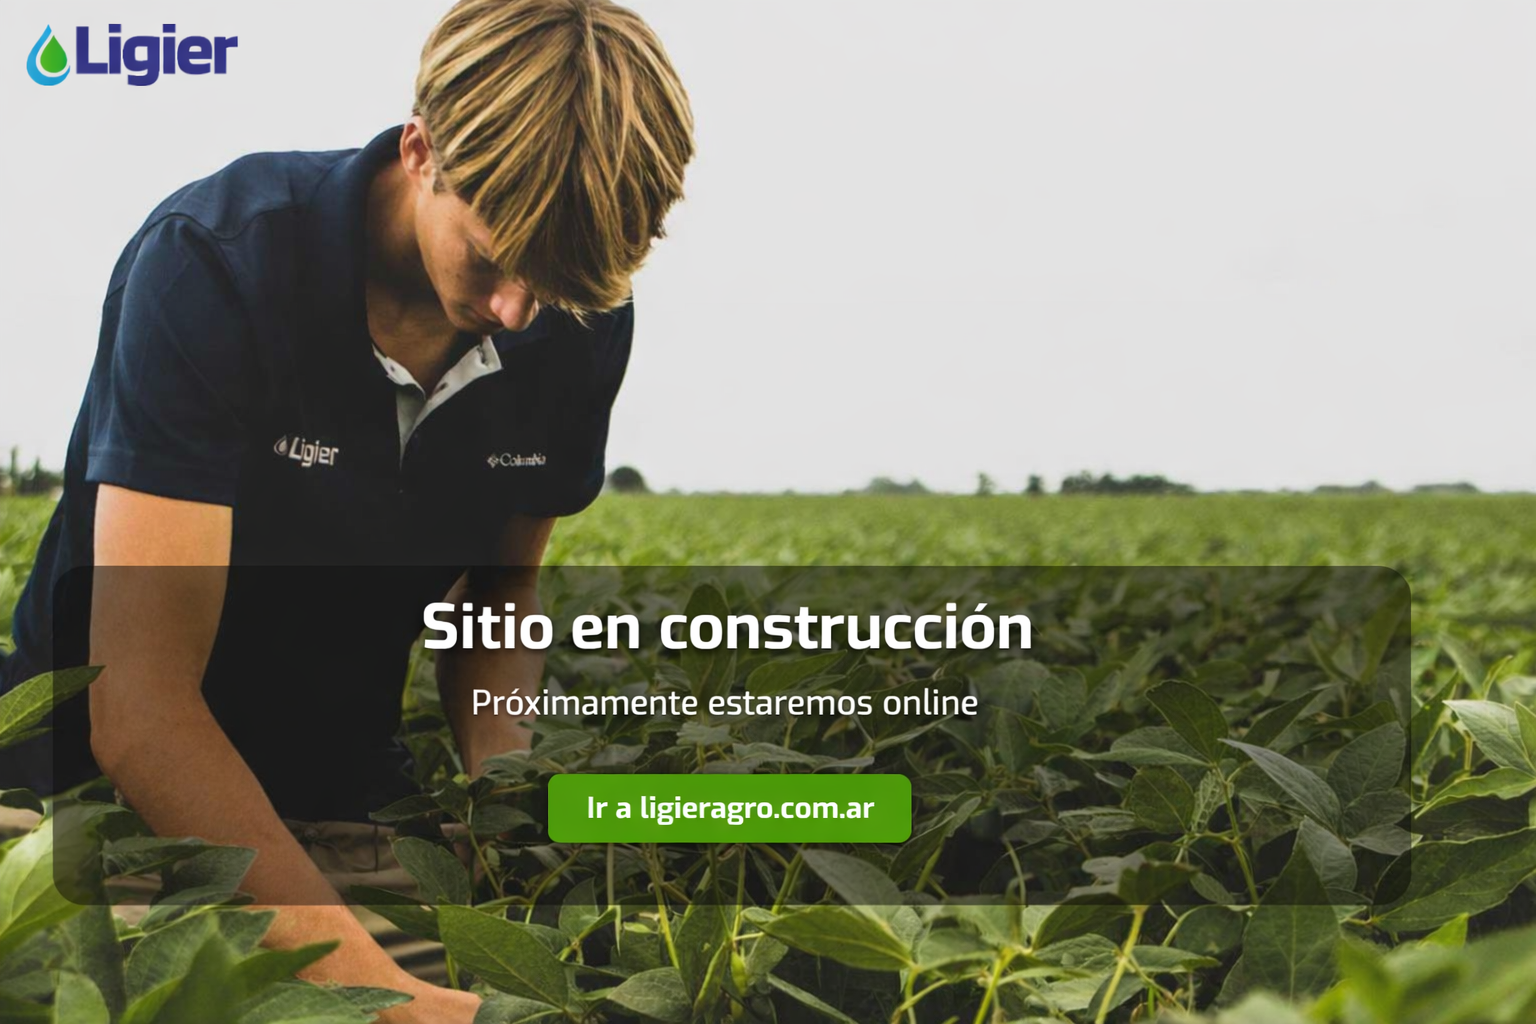
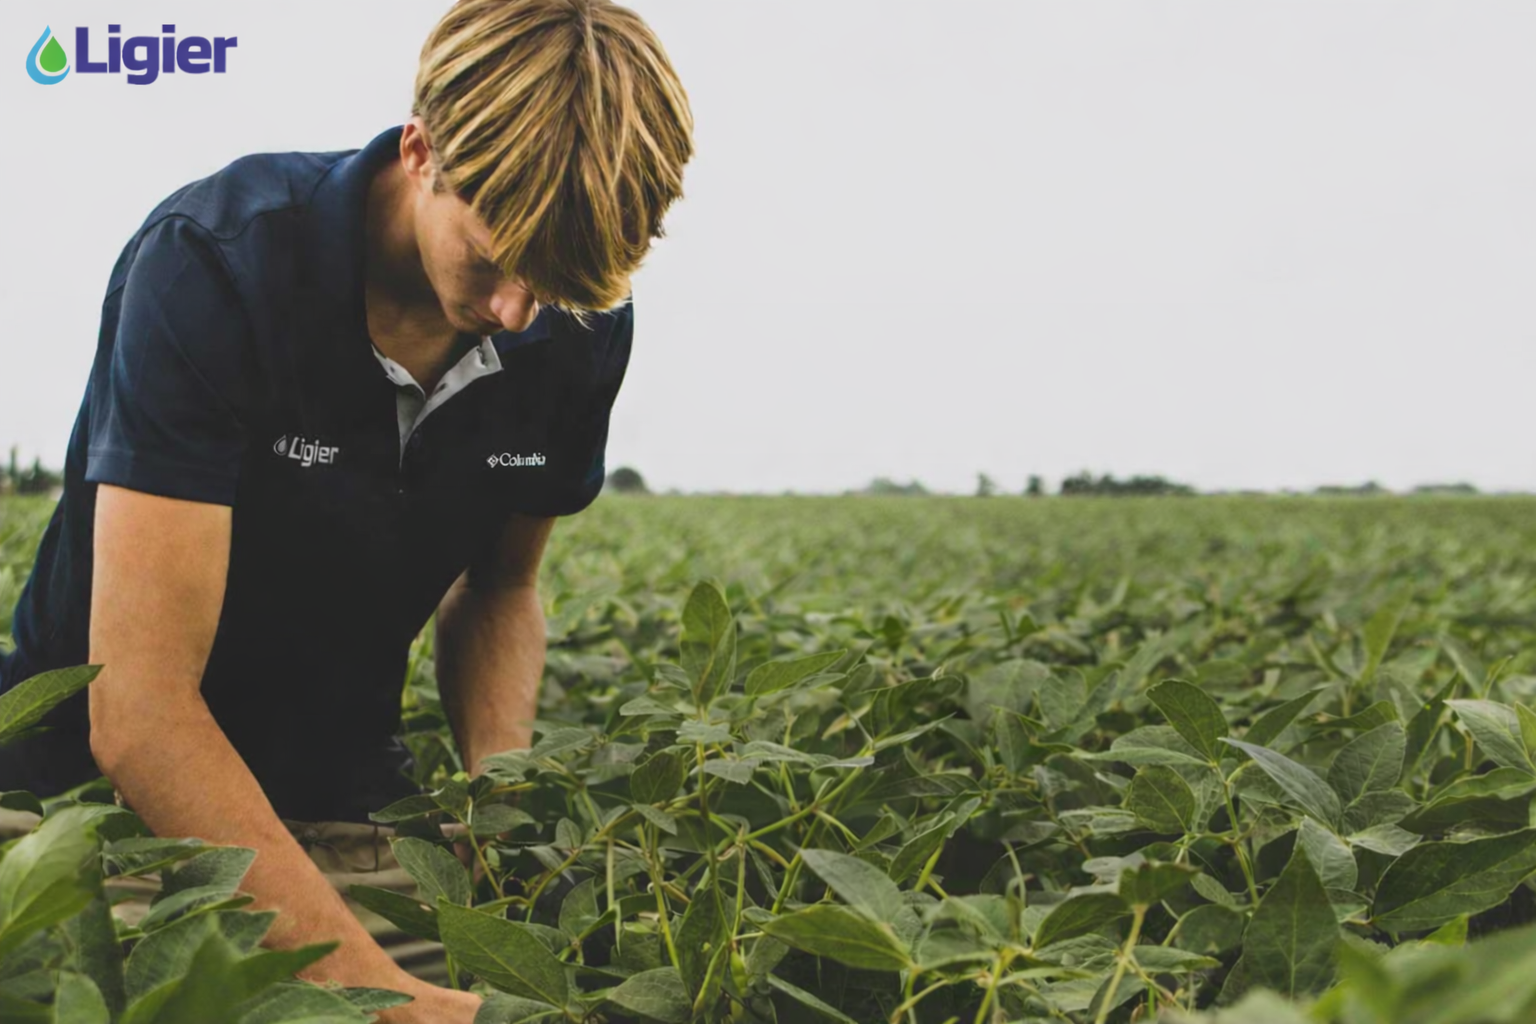
Cambio en el fondo 2

diff --git a/index.html b/index.html
@@ -24,7 +24,7 @@
     }
 
     body {
-      background: url('fondo.jpg') no-repeat center center / cover;
+      background: url('fondo.png') no-repeat center center / cover;
       position: relative;
       overflow: hidden;
       color: white;
